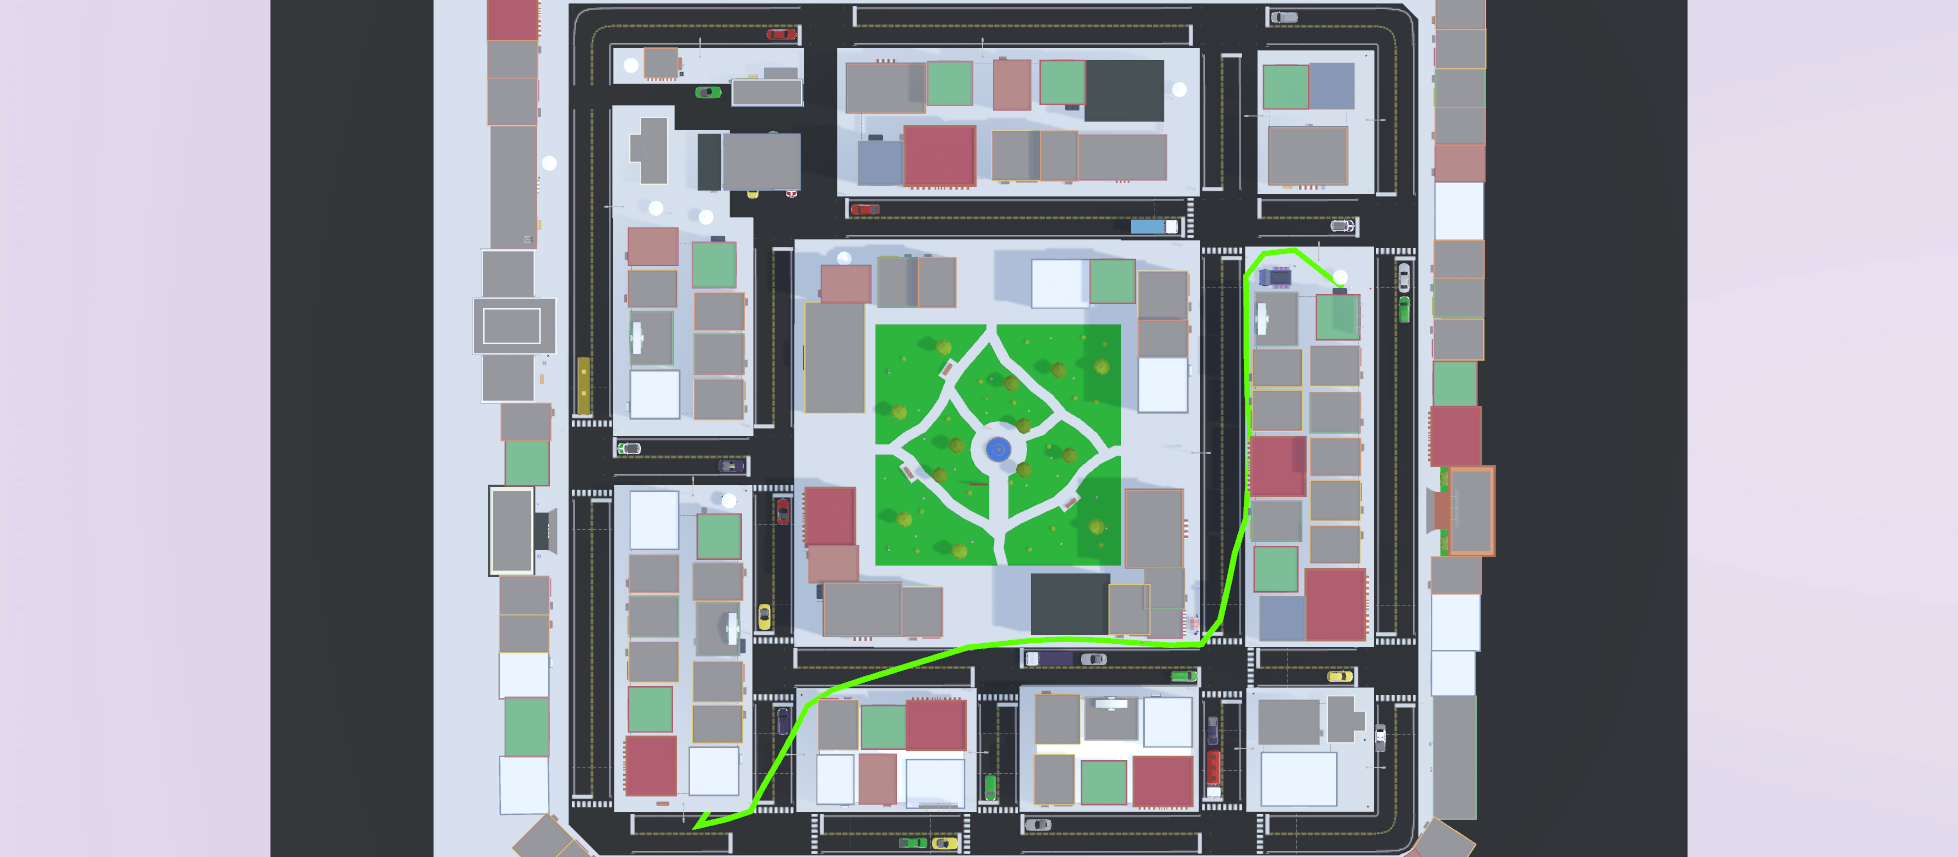
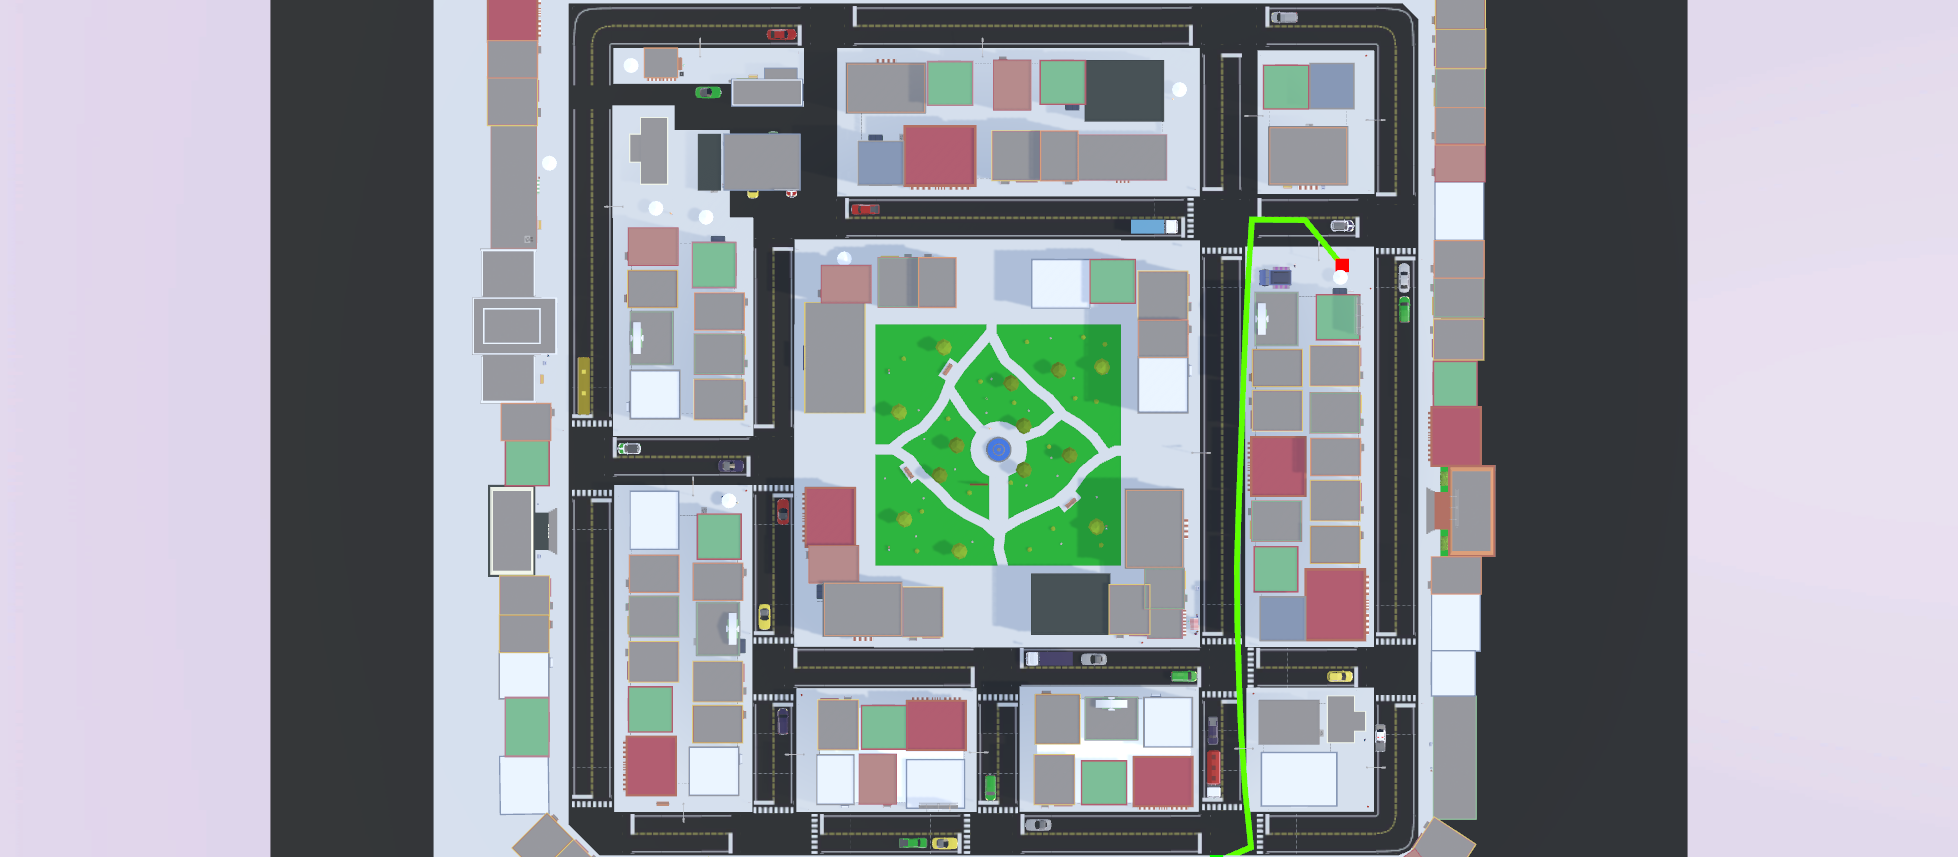
Added start and end to visual

diff --git a/Assets/Scripts/Saving Data/LineRenderController.cs b/Assets/Scripts/Saving Data/LineRenderController.cs
@@ -6,6 +6,8 @@ public class LineRenderController : MonoBehaviour
 {
     [SerializeField] private Transform player;
     [SerializeField] private Camera projectionCamera;
+    [SerializeField] private Transform startCube;
+    [SerializeField] private Transform endCube;
     [SerializeField] private List<Material> lineMaterials = new List<Material>();
     private List<Transform> playerTransforms = new List<Transform>();
     private LineRenderer lineRenderer;
@@ -39,11 +41,17 @@ public class LineRenderController : MonoBehaviour
 
     public void LogPlayersTransform()
     {
+        
         totalPoints++;
         playerPoint = new GameObject("point " + totalPoints);
         playerPoint.transform.position = player.transform.position;
         //playerPoint.transform.rotation = player.transform.rotation;
         playerTransforms.Add(playerPoint.transform);
+
+        if(playerTransforms.Count == 1)
+        {
+            startCube.position = playerTransforms[0].position;
+        }
     }
 
     public void RoundDone()
@@ -56,6 +64,11 @@ public class LineRenderController : MonoBehaviour
         {
             lineRenderer.material = lineMaterials[round];
         }
+    }
+
+    public void MarkEndLocation()
+    {
+        endCube.position = playerTransforms[playerTransforms.Count - 1].position;
     }
 
     private void Screenshot()

diff --git a/Assets/Scripts/RoundSystem.cs b/Assets/Scripts/RoundSystem.cs
@@ -190,6 +190,7 @@ public class RoundSystem : MonoBehaviour
         if (!isGameEnded)
         {
             StartCoroutine(MovePlayer());
+            lineRenderController.MarkEndLocation();
         }
         else
         {
